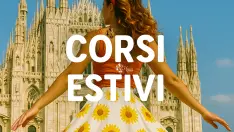
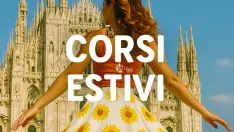
modificata immagine corsi-estivi

diff --git a/corsi-estivi/index.html b/corsi-estivi/index.html
@@ -750,7 +750,7 @@
   
   <figure >
     <div class="snap-wrapper">
-      <img  decoding="async" src="https://www.ilmosaicodanza.it/corsi-estivi/corsi-estivi-milano-danza-featured.webp" class="snap-thumb" alt="Corsi di danza estivi al Mosaico Danza" width="1024" height="576">
+      <img  decoding="async" src="https://www.ilmosaicodanza.it/corsi-estivi/corsi-estivi-milano-danza-featured.webp" class="snap-thumb" alt="Corsi di danza estivi al Mosaico Danza" width="1365" height="768">
     </div>
     <figcaption class="i gold f5">Luglio è il mese migliore per goderti ancora di più la gioia di danzare e divertirti!</figcaption>
   </figure>
